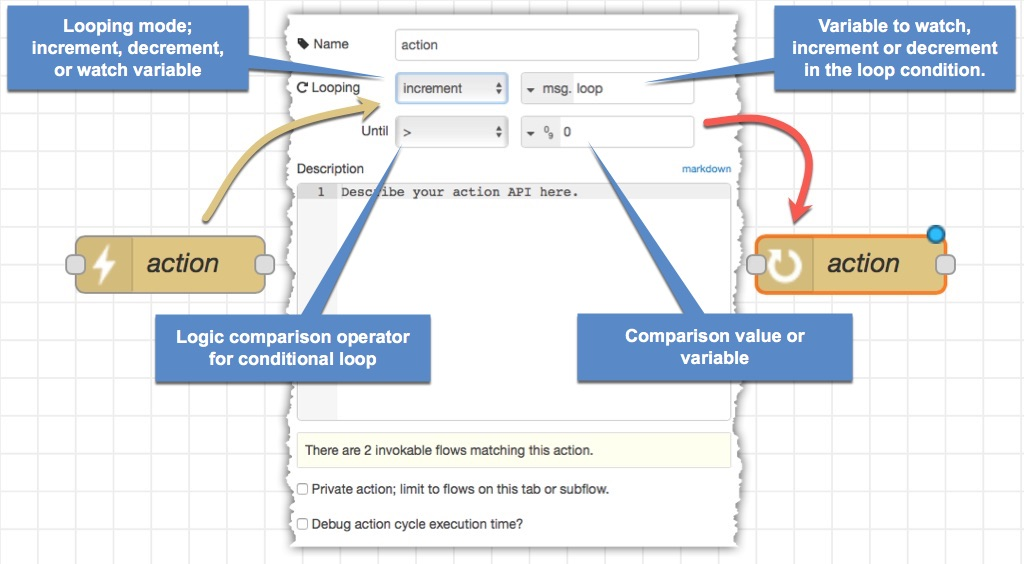
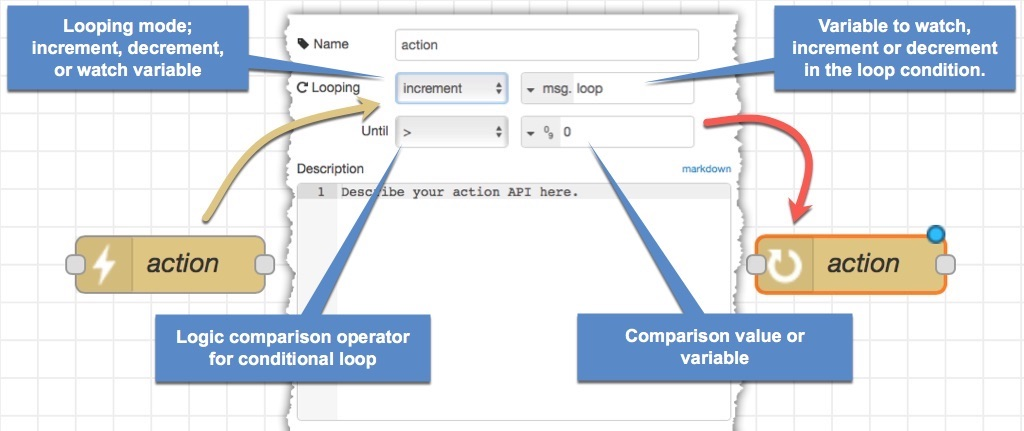
Updated for scopes feature

diff --git a/README.md b/README.md
@@ -85,7 +85,7 @@ execution time" to see debug output indicating how long it took to run all of
 the corresponding `action in/out` flow segments before returning to the calling
 action.
 
-![ActionFlows Benchmarks](/actionflows/demo/bench2.png?raw=true "Debug Execution Time")
+![ActionFlows Benchmarks](/actionflows/demo/bench2.jpg?raw=true "Debug Execution Time")
 
 > Note: Benchmarks report how long it takes to run all matching `action in/out`
 > flows for one given iteration. Loops return to the `action` node before
@@ -293,7 +293,7 @@ prefix to identify the subflow location of other ActionFlows nodes. The prefix
 is the name of the subflow where the corresponding `action` or `action in` node
 exists. In the screenshot above we have two examples:
 
-*An example of an `action` node calling a flow segment defined outside the subflow.*
+**An example of an `action` node calling a flow segment defined outside the subflow.**
 1a) The subflow is defined on the tab with the name "acme", it is invoked with
 an injector supplying the string "Hello".
 1b) The injector activates the subflow's `action` node named "action".
@@ -305,7 +305,7 @@ The flow segment contains a change node that alters the "Hello string" and
 changes it to "Hi".
 
 
-*An example of a flow segment defined inside a subflow and accessed from outside.*
+**An example of a flow segment defined inside a subflow and accessed from outside.**
 2a) The `action` node named "acme.sample in" finds the defined flow segment
 inside the subflow named "acme".
 2b) Within the "acme" subflow is the `action in` node named "sample".
